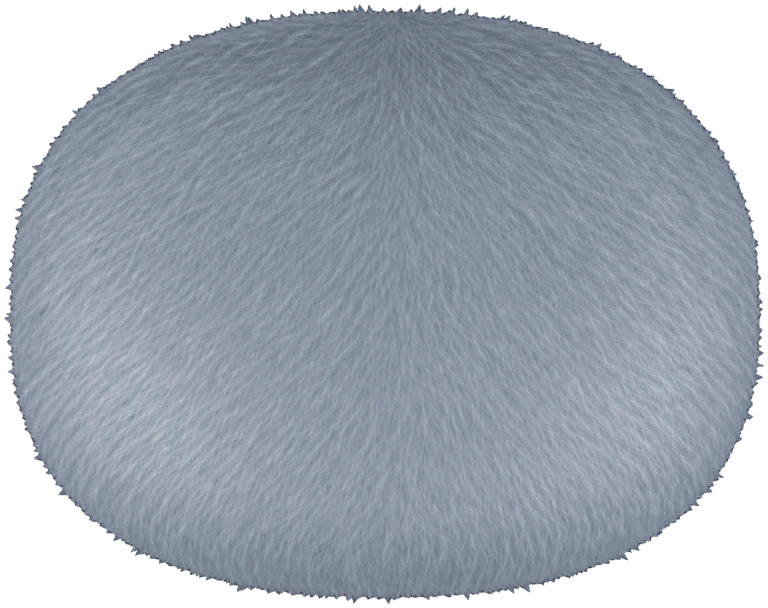
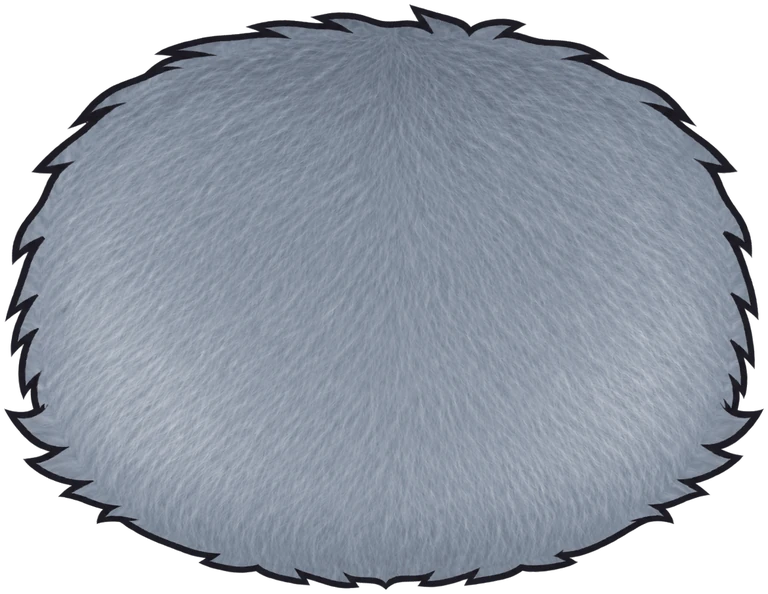
英短蓝头部换上和橘猫同一套手绘毛簇描边
前几版毛边是光滑渐变或程序生成的尖齿，看着发虚或像锯片。v8 把橘猫头图的外形和
描边按极坐标形变套到英短蓝的宽椭圆上，脸内保留银蓝灰毛流；后脑同样处理。
头图变大，按新的 alpha 范围更新正面、背影的位置和宽度。

Changed region(s): [[0.0, 0.0, 1.0, 0.9697], [0.125, 0.8485, 0.6562, 1.0], [0.0938, 0.6667, 0.125, 0.697]]

diff --git a/prototype/coats.js b/prototype/coats.js
@@ -151,7 +151,7 @@
         <path class="coat-calico-dark" d="M 520 280 C 492 262 460 268 448 294 C 439 310 450 330 461 344 C 473 359 455 380 476 396 C 494 409 520 397 533 381 Z"/>`,
     },
     { id: 'blue', name: '英短蓝猫', art: art('blue', {
-      head: { cx: 400.1, cy: 181.3, width: 275.3 }, backHead: { cx: 399.8, cy: 180.9, width: 274.5 },
+      head: { cx: 399.6, cy: 179.6, width: 291.3 }, backHead: { cx: 399.9, cy: 178.9, width: 293.8 },
       ear: { x: 276.3, y: 62.3, width: 75.5 }, // 小圆耳，分得开、长得低
       arm: { width: 62, maskBody: true }, paw: { width: 72 }, tail: { scale: 1.25 },
       headPath: 'M 534.0 182.0 L 534.0 189.2 L 533.9 195.0 L 533.5 200.4 L 533.0 205.4 L 532.2 210.3 L 531.3 214.9 L 530.1 219.4 L 528.7 223.7 L 527.0 227.9 L 525.2 232.0 L 523.1 235.9 L 520.9 239.7 L 518.4 243.3 L 515.7 246.8 L 512.8 250.2 L 509.6 253.4 L 506.3 256.5 L 502.7 259.4 L 499.0 262.2 L 495.0 264.9 L 490.8 267.4 L 486.4 269.8 L 481.9 272.0 L 477.1 274.0 L 472.1 275.9 L 466.9 277.6 L 461.6 279.2 L 456.0 280.6 L 450.2 281.9 L 444.2 283.0 L 438.0 283.9 L 431.5 284.7 L 424.7 285.2 L 417.5 285.7 L 409.7 285.9 L 400.0 286.0 L 390.3 285.9 L 382.5 285.7 L 375.3 285.2 L 368.5 284.7 L 362.0 283.9 L 355.8 283.0 L 349.8 281.9 L 344.0 280.6 L 338.4 279.2 L 333.1 277.6 L 327.9 275.9 L 322.9 274.0 L 318.1 272.0 L 313.6 269.8 L 309.2 267.4 L 305.0 264.9 L 301.0 262.2 L 297.3 259.4 L 293.7 256.5 L 290.4 253.4 L 287.2 250.2 L 284.3 246.8 L 281.6 243.3 L 279.1 239.7 L 276.9 235.9 L 274.8 232.0 L 273.0 227.9 L 271.3 223.7 L 269.9 219.4 L 268.7 214.9 L 267.8 210.3 L 267.0 205.4 L 266.5 200.4 L 266.1 195.0 L 266.0 189.2 L 266.0 182.0 L 266.1 174.6 L 266.4 168.7 L 267.0 163.3 L 267.7 158.1 L 268.7 153.2 L 269.9 148.4 L 271.3 143.9 L 272.9 139.5 L 274.7 135.2 L 276.8 131.1 L 279.0 127.1 L 281.4 123.2 L 284.1 119.5 L 286.9 116.0 L 290.0 112.5 L 293.2 109.2 L 296.6 106.1 L 300.2 103.1 L 304.0 100.2 L 308.0 97.5 L 312.2 95.0 L 316.5 92.6 L 321.0 90.3 L 325.7 88.2 L 330.6 86.3 L 335.6 84.5 L 340.8 82.9 L 346.2 81.5 L 351.8 80.2 L 357.6 79.1 L 363.6 78.1 L 369.8 77.4 L 376.3 76.8 L 383.2 76.3 L 390.7 76.1 L 400.0 76.0 L 409.3 76.1 L 416.8 76.3 L 423.7 76.8 L 430.2 77.4 L 436.4 78.1 L 442.4 79.1 L 448.2 80.2 L 453.8 81.5 L 459.2 82.9 L 464.4 84.5 L 469.4 86.3 L 474.3 88.2 L 479.0 90.3 L 483.5 92.6 L 487.8 95.0 L 492.0 97.5 L 496.0 100.2 L 499.8 103.1 L 503.4 106.1 L 506.8 109.2 L 510.0 112.5 L 513.1 116.0 L 515.9 119.5 L 518.6 123.2 L 521.0 127.1 L 523.2 131.1 L 525.3 135.2 L 527.1 139.5 L 528.7 143.9 L 530.1 148.4 L 531.3 153.2 L 532.3 158.1 L 533.0 163.3 L 533.6 168.7 L 533.9 174.6 Z',

diff --git a/prototype/art/blue/manifest.js b/prototype/art/blue/manifest.js
@@ -1,1 +1,1 @@
-SillyArt.register("blue", {"head": [768, 605], "ear": [302, 302], "body": [755, 768], "arm-l": [200, 768], "arm-r": [200, 768], "paw-l": [768, 534], "paw-r": [768, 534], "tail": [125, 768], "back-head": [768, 608], "ear-back": [302, 302], "back-body": [752, 768]});
+SillyArt.register("blue", {"head": [768, 599], "ear": [302, 302], "body": [755, 768], "arm-l": [200, 768], "arm-r": [200, 768], "paw-l": [768, 534], "paw-r": [768, 534], "tail": [125, 768], "back-head": [768, 594], "ear-back": [302, 302], "back-body": [752, 768]});

diff --git a/tools/prepare_art.py b/tools/prepare_art.py
@@ -22,7 +22,7 @@ PORTRAITS = {
     "cow": {}, "lihua": {}, "black": {}, "white": {},
     "calico": {"head": (400, 173.1, 266)},
     "orange": {"headSX": 1.08},
-    "blue": {"head": (400.1, 181.3, 275.3), "ear": (276.3, 62.3, 75.5, 0)},
+    "blue": {"head": (399.6, 179.6, 291.3), "ear": (276.3, 62.3, 75.5, 0)},
     "siamese": {"head": (400.1, 168.9, 241.3), "ear": (272, 22, 110, 12)},
     "maine": {"head": (400.4, 178.1, 322.3), "ear": (278, 14, 110, 0), "ear_scale": 1.15},
     "sphynx": {"head": (400.1, 169.1, 255.3), "ear": (268, 34, 110, 16), "ear_scale": 1.18},
